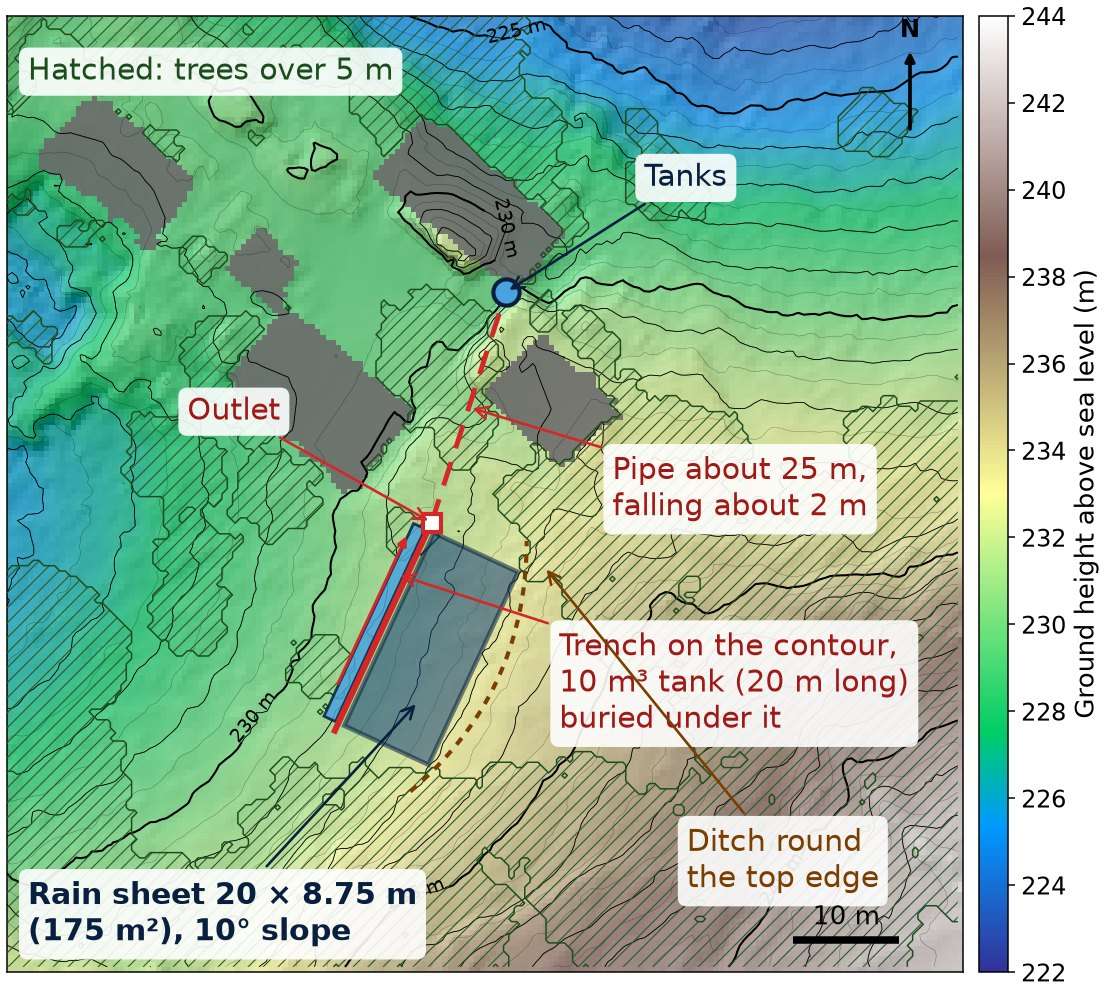
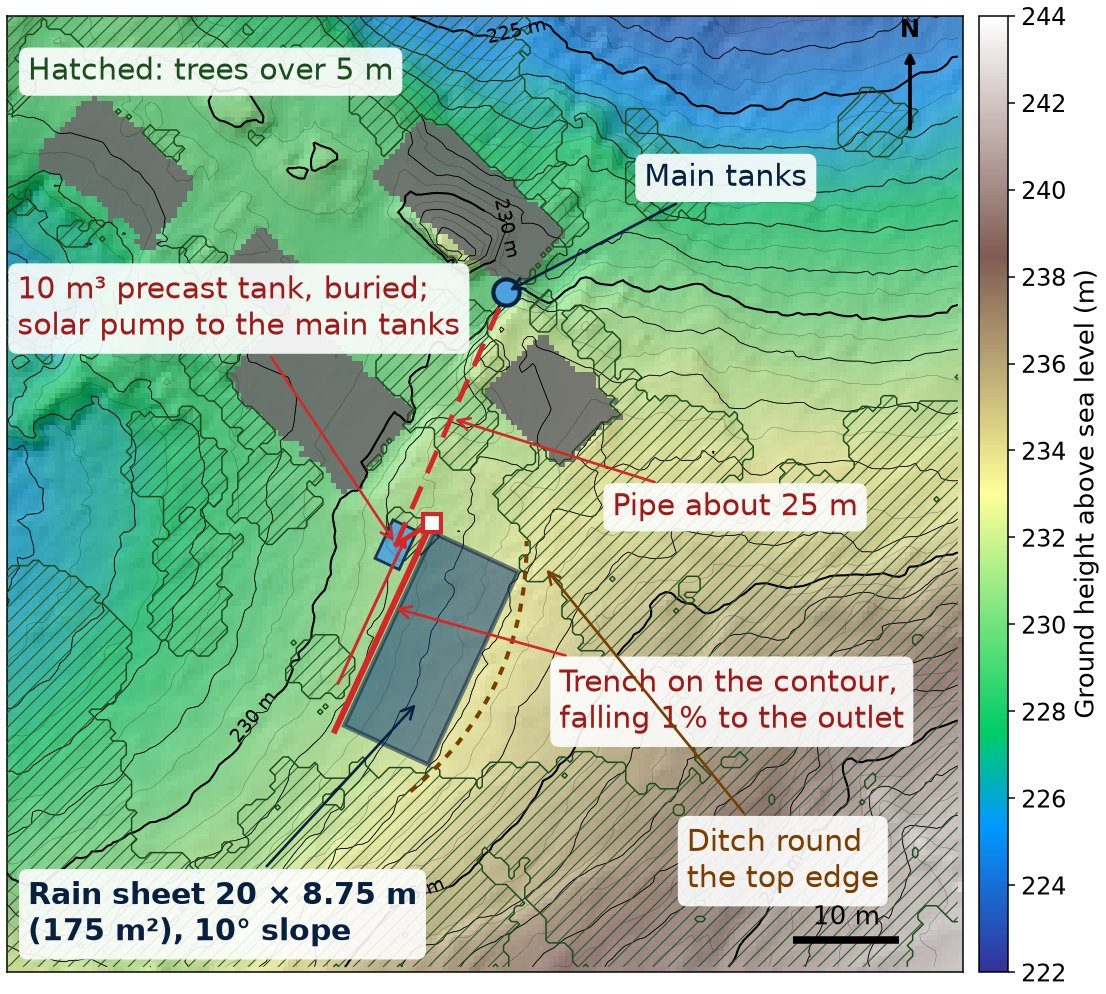
Precast extra tank sized 124 m3 minus the main tanks; house tank and solar building tank
- The 10 m3 extra tank becomes a buried precast concrete rainwater tank (drinking-water
  certified) at the end of the trench, with a solar pump and a float switch in the main tanks;
  size it as 124 m3 minus the measured usable storage. Cost about EUR 7,000-13,000.
- Tank 1 and Tank 2 renamed house tank and solar building tank, flagged as unmeasured.

diff --git a/index.html b/index.html
@@ -168,7 +168,7 @@
 <section class="fix" id="fix">
   <div class="fix-label">The recommended fix</div>
   <h2>A rain sheet on the slope next to the house</h2>
-  <p>The house runs short because its roofs catch too little rain. With the house full all summer they can't even refill the tanks over winter, so each summer starts with the tanks part-empty, and summer showers add little. So the answer is <b>more collecting surface</b>. The simplest, cheapest and lowest-risk way to get it is one rubber (EPDM) sheet, about <b>20 × 8.75 m (175 m²)</b>, laid on the open slope of grass and low scrub just south of the buildings, with a <b>10 m³ tank buried under its collection trench</b>. <b>The tank is what keeps the sheet this small:</b> it holds the sheet's water from storms that come when the main tanks are already full, and without it the sheet would need to be about 230 m² for the same result. If the main tanks turn out to hold about 10 m³ more than estimated, they do the same job and the extra tank isn't needed, so measure them first. It's made from off-the-shelf polyethylene water pipe of the kind used for drinking-water mains, so the tank itself is made of drinking-water-safe material. Everything drains by gravity into the existing underground tanks.</p>
+  <p>The house runs short because its roofs catch too little rain. With the house full all summer they can't even refill the tanks over winter, so each summer starts with the tanks part-empty, and summer showers add little. So the answer is <b>more collecting surface</b>. The simplest, cheapest and lowest-risk way to get it is one rubber (EPDM) sheet, about <b>20 × 8.75 m (175 m²)</b>, laid on the open slope of grass and low scrub just south of the buildings, draining into a <b>10 m³ buried tank</b> at the end of its collection trench. <b>The tank is what keeps the sheet this small:</b> it holds the sheet's water from storms that come when the main tanks are already full, and without it the sheet would need to be about 230 m² for the same result. A standard precast concrete rainwater tank does the job; concrete releases nothing harmful into the water. A small solar pump moves its water into the existing underground tanks whenever they have room. If the main tanks turn out to hold about 10 m³ more than estimated, they do the same job and the extra tank isn't needed, so measure them first.</p>
   <p>It's sized so that no tanker would have been needed in any summer since 2010. A summer as dry as 2009, the driest since 1994, would need one or two tankers; it's not worth a bigger sheet for that, and the sheet can be extended later if very dry summers become more common. A bigger buried tank lets the sheet shrink a little further.</p>
   <p class="fix-live" id="fix_live">Calculating…</p>
   <div class="toolbar"><button type="button" id="fix_btn">Switch the sheet on in the simulator</button>
@@ -176,7 +176,7 @@
 
   <figure>
     <a href="img/rain-sheet-site.jpg" target="_blank" rel="noopener"><img src="img/rain-sheet-site.jpg" width="1106" height="994" loading="lazy" alt="Elevation map of the slope south of the buildings from LiDAR, showing the proposed rain sheet, its collection trench and outlet, the diversion ditch above it and the pipe to the tanks."></a>
-    <figcaption>Ground height from the IGN LiDAR HD survey (flown April 2022, 0.5 m grid), coloured by height with 1 m contours; buildings in grey, trees over 5 m hatched. The sheet, trench, ditch and pipe are the proposed layout; the 10 m³ tank lies under the trench (drawn just beside it so it shows). The tanks are at the southern corner of the north-east building. Tap the map to open it full size.</figcaption>
+    <figcaption>Ground height from the IGN LiDAR HD survey (flown April 2022, 0.5 m grid), coloured by height with 1 m contours; buildings in grey, trees over 5 m hatched. The sheet, trench, ditch, extra tank and pipe are the proposed layout. The main tanks are at the southern corner of the north-east building. Tap the map to open it full size.</figcaption>
   </figure>
 
   <h3>Options compared</h3>
@@ -186,7 +186,7 @@
       <thead><tr><th>Option</th><th>Upfront cost</th><th>Tanker deliveries a summer</th><th>Risk and hassle</th></tr></thead>
       <tbody>
         <tr><td>As now, with tankers</td><td>None</td><td class="num">6.5 (about €1,800 a year)</td><td>Depends on finding a haulier and a legal filling point; in a drought, towns compete for the same lorries.</td></tr>
-        <tr class="best"><td><b>Rain sheet 20 × 8.75 m (175 m²) with a 10 m³ tank under it</b></td><td><b>About €9,000–16,000</b></td><td class="num"><b>0</b> (lowest the tanks got: about 12 m³, in 2011; a summer like 2009 would need 1–2)</td><td>Proven method, about a week's work with a small digger, gravity-fed. Ask the mairie first; work in autumn or winter. The sheet lasts 20–40 years.</td></tr>
+        <tr class="best"><td><b>Rain sheet 20 × 8.75 m (175 m²) with a 10 m³ buried tank</b></td><td><b>About €7,000–13,000</b></td><td class="num"><b>0</b> (lowest the tanks got: about 12 m³, in 2011; a summer like 2009 would need 1–2)</td><td>Proven method, about a week's work with a small digger, gravity-fed. Ask the mairie first; work in autumn or winter. The sheet lasts 20–40 years.</td></tr>
         <tr><td>The same sheet and tank, plus dual-flush toilets</td><td>As above, plus a few hundred euros</td><td class="num">0 (lowest: about 26 m³, even in 2009)</td><td>A large safety margin, even in the driest summer.</td></tr>
         <tr><td>A bigger sheet instead of the tank (about 230 m²)</td><td>Less</td><td class="num">0 (a summer like 2009 would need 1)</td><td>A third more sheet to look at.</td></tr>
         <tr><td>Smaller sheet (about 105 m²), no tank, with dual-flush toilets</td><td>Less than the main option, plus the toilets</td><td class="num">0 (a summer like 2009 would need 1)</td><td>The smallest sheet, if the toilets are changed.</td></tr>
@@ -222,12 +222,12 @@
         <li><b>Clear the ground</b> between September and February, outside the bird nesting season and the spring flowering: cut the grass and bushes short and take out any woody roots that could push up under the sheet. No weedkiller.</li>
         <li><b>Smooth the ground.</b> Rake off stones bigger than about 2 cm and fill hollows so no water can pond. Shape the surface as a very shallow trough, with the middle 10–20 cm lower than the ends, so water runs down the middle.</li>
         <li><b>Dig the collection trench</b> along the bottom edge, following the contour, falling a steady 1% (20 cm over 20 m) to the outlet at the north-east end, nearest the tanks. The ground rises slightly towards that end, so the trench is about 30 cm deep at the south-west end and about 90 cm at the outlet. Line it with the bottom edge of the sheet.</li>
-        <li><b>Lay the 10 m³ pipe tank</b> in a deeper trench under the collection trench, before laying the sheet (see <i>The 10 m³ tank under the trench</i>). The collection trench drains into it at the north-east end through a leaf screen.</li>
+        <li><b>Put in the extra tank</b> (see <i>The 10 m³ extra tank, and checking the main tanks</i>) next to the north-east end of the collection trench, with its inlet below the trench outlet so the sheet's water runs into it through a leaf screen.</li>
         <li><b>Dig anchor trenches</b> about 30 × 30 cm along the top edge and both sides, and a shallow <b>diversion ditch</b> above the top edge that sends water and leaves from the wood round the sheet. Its ends run into the edge of the trees, so keep them shallow there and work round the roots.</li>
         <li><b>Lay a protective underlay</b> of non-woven geotextile (300 g/m², or 500 g/m² over rock or a lot of stone).</li>
         <li><b>Lay the sheet</b> from the top on a calm, warm day, when the rubber is supple. Pull it downhill so it lies flat without ripples. Bury its top and side edges in the anchor trenches and lap the bottom edge into the collection trench.</li>
         <li><b>Dig the pipe trench</b> to the tanks, about 25 m, with a steady fall all the way. It's up to about 2 m deep where the ground rises beside the south-east building, so use the digger and keep clear of the foundations.</li>
-        <li><b>Connect the tank</b> to the main tanks with 110 mm PVC pipe laid in the pipe trench, with a self-cleaning leaf filter and a float valve where it enters them, so the tank under the sheet only empties when they have room.</li>
+        <li><b>Connect the extra tank</b> to the main tanks: a small solar pump in the extra tank, switched by a float switch in the main tanks so it only pumps when they have room, and about 25 m of pipe in the pipe trench, with a self-cleaning leaf filter where it enters them.</li>
         <li><b>Fence it</b> against wild boar and deer, and keep guests off: wet rubber on a slope is very slippery. Cut back any branches that overhang it.</li>
       </ol>
       <p class="small">Upkeep: sweep or blow off leaves before May and after summer storms, clean the leaf filter, and check the sheet once a year. Small tears are patched like a bicycle tyre.</p>
@@ -236,12 +236,12 @@
   </details>
 
   <details>
-    <summary>The 10 m³ tank under the trench, and checking the main tanks</summary>
+    <summary>The 10 m³ extra tank, and checking the main tanks</summary>
     <div class="body">
-      <p class="small"><b>Why a tank.</b> A storm that arrives when the main tanks are already full would otherwise run off the sheet and be lost. The tank under the trench holds that water and lets it run into the main tanks as they empty. That's what lets the sheet be 175 m² instead of about 230 m² for the same result. A bigger tank lets the sheet shrink a little more, but the gain tails off quickly:</p>
+      <p class="small"><b>Why a tank.</b> A storm that arrives when the main tanks are already full would otherwise run off the sheet and be lost. The extra tank holds that water and passes it to the main tanks as they empty. That's what lets the sheet be 175 m² instead of about 230 m² for the same result. A bigger tank lets the sheet shrink a little more, but the gain tails off quickly:</p>
       <div class="table-wrap">
         <table>
-          <thead><tr><th>Extra tank under the sheet</th><th class="num">Sheet needed</th><th>Example size</th></tr></thead>
+          <thead><tr><th>Extra tank for the sheet</th><th class="num">Sheet needed</th><th>Example size</th></tr></thead>
           <tbody>
             <tr><td>None</td><td class="num">about 230 m²</td><td>20 × 11.5 m</td></tr>
             <tr class="best"><td><b>10 m³</b></td><td class="num"><b>175 m²</b></td><td><b>20 × 8.75 m</b></td></tr>
@@ -254,7 +254,7 @@
       <p class="tiny">Same result in each row: no tanker in any summer since 2010, and one or two in a summer as dry as 2009. The simulator models the tank as filled only by the sheet and emptying into the main tanks whenever they have room.</p>
       <p class="small"><b>The trade-off between tank and sheet.</b> More storage lets the sheet shrink a little, but only a little. Below about 155–175 m², storage can't make up for it: the sheet's area is what brings water in during the summer, and with too little of it the longer record shows tankers in several dry summers however big the tanks are. So plan on about 175 m² of sheet. The tank question is only how to provide enough storage in total.</p>
       <h3>Check the main tanks first</h3>
-      <p class="small">What matters is the total storage, not where it sits. A cubic metre in the main tanks is worth at least as much as one under the sheet, because the main tanks also take the roof water. The page assumes the two main tanks are 4 × 4 × 4 m with 90% usable, which is 115 m³, but they haven't been measured. With the 175 m² sheet feeding the main tanks directly, about 120–124 m³ of usable storage does the job of the extra tank:</p>
+      <p class="small">What matters is the total storage, not where it sits. A cubic metre in the main tanks is worth at least as much as one in the extra tank, because the main tanks also take the roof water. The page assumes the two main tanks, the house tank and the solar building tank, are 4 × 4 × 4 m each with 90% usable, which is 115 m³. <b>That's an estimate: they haven't been measured, and the answer depends on it.</b> With the 175 m² sheet feeding the main tanks directly, about 120–124 m³ of usable storage does the job of the extra tank:</p>
       <div class="table-wrap">
         <table>
           <thead><tr><th class="num">Usable storage in the main tanks</th><th class="num">Their full size, if 90% is usable</th><th class="num">Tankers since 2010</th><th class="num">Tankers since 1994</th></tr></thead>
@@ -267,16 +267,16 @@
         </table>
       </div>
       <p class="small"><b>So measure them before building anything.</b> In each tank: the inside length and width, the depth from the floor to the overflow pipe, and the height of the pump intake above the floor (water below it can't be used). Usable volume = length × width × (overflow height − intake height). If the two together come to about 124 m³ or more, skip the extra tank. If they come up short, the extra tank only has to make up the difference. Small differences add up: an extra 25 cm of depth across both tanks is about 8 m³.</p>
-      <p class="small">To check it in the simulator: enter the measured sizes under <i>Tanks</i>, set <i>Usable share of the tank volume</i> under <i>Tanks in detail</i>, tick the ground sheet, untick "Tank under the sheet", and set <i>Start from the year</i> to 1994.</p>
-      <p class="small"><b>Size and height.</b> The tank runs the full 20 m under the collection trench, so 10 m³ needs an inside cross-section of only 0.5 m²: a pipe about 800 mm across inside, or a box 1.0 m wide with 0.5 m of water. Its bottom sits at about 230.1–230.2 m, above the point where the pipe enters the main tanks (about 229.3 m), so it empties by gravity. If the main tanks' inlet turns out to be higher, a small solar pump does the same job.</p>
-      <p class="small"><b>It only empties when the main tanks have room.</b> A float valve where the pipe enters the main tanks closes when they're full and opens again as the house draws them down. Without it, the tank under the sheet would drain straight through the full main tanks and out of their overflow, and the stored water would be lost. Use a full-bore float valve made for low-pressure gravity filling. When both are full, the tank under the sheet overflows onto the slope below.</p>
-      <p class="small"><b>Two ways to build it:</b></p>
+      <p class="small">To check it in the simulator: enter the measured sizes under <i>Tanks</i>, set <i>Usable share of the tank volume</i> under <i>Tanks in detail</i>, tick the ground sheet, untick "Extra tank (sheet only)", and set <i>Start from the year</i> to 1994.</p>
+      <p class="small"><b>Size of the extra tank.</b> It needs to hold x = 124 m³ minus the usable storage in the main tanks: 10 m³ with the current estimate of 115 m³. Buy one a little bigger than x, as the bottom and top of any tank can't be used, and round up to the next standard size.</p>
+      <p class="small"><b>It only empties when the main tanks have room.</b> A float switch in the main tanks runs the pump only while there's room in them; otherwise the extra tank keeps its water. When both are full, the extra tank overflows onto the slope below. If a low, wide tank fits between the trench outlet (about 231 m) and the main tanks' inlet (about 229.3 m), gravity can replace the pump, with a float valve at the main tanks doing the same job as the float switch.</p>
+      <p class="small"><b>What to build it from:</b></p>
       <ul class="checks small">
-        <li><b>Recommended: 20 m of off-the-shelf polyethylene water-main pipe</b> (PE100, approved for drinking water, with the French ACS certificate). These pipes are sized by their outside diameter: a 900 mm pipe is about 830 mm inside and holds about 10.8 m³ over 20 m. End caps are welded on, so the whole tank is one sealed piece of drinking-water-grade plastic, with no lining and no joints along its length. The trench drains into it through a leaf screen at the north-east end; an outlet at the bottom of the same end feeds the pipe to the main tanks; an overflow and an inspection opening complete it. It goes into a trench about 1.3 m wide and 1.4 m deep in a day with a digger; the end caps and fittings are welded by the supplier or a pipe welder.</li>
-        <li><b>Cheaper, but not drinking-water grade:</b> 800 mm twin-wall (ribbed) plastic drainage pipe, the kind sold for buried stormwater storage, holds about 10 m³ over 20 m and costs less, but isn't approved for drinking water.</li>
-        <li><b>Concrete block</b>, inside 20 m long, 1.0 m wide and 0.75 m high (0.5 m of water and 0.25 m of air). It needs a reinforced concrete base slab, walls of concrete-filled blocks with steel bars (the ground pushes on the walls when the tank is empty), a lid of precast concrete slabs, and the inside rendered with a waterproof cement coating or lined with EPDM. It works, but it's more labour, has more joints that can crack as the ground moves, and the coating or liner would need to be drinking-water approved too.</li>
+        <li><b>Recommended: a precast concrete rainwater tank</b>, buried, from a local concrete works; a 10 m³ tank is roughly 3.5 × 2.2 × 2 m. Concrete has been used to store drinking water for over a century and releases nothing harmful; it even nudges acidic rainwater's pH up a little. A new tank releases lime at first, which pushes the pH right up, so fill and empty it once or twice before use. Ask for one certified for drinking water (ACS) with no coating inside that isn't approved. It needs a crane or a large digger to lift it in.</li>
+        <li><b>Standard buried plastic rainwater tanks</b>, two or three linked, if a crane can't reach the site. Choose food-grade or drinking-water-grade polyethylene.</li>
+        <li><b>Polyethylene drinking-water main pipe</b>, 20 m of 900 mm pipe with welded end caps (about 10.8 m³), laid under the trench. It drains by gravity and needs no pump, but costs about €5,000–9,000. A concrete-block tank built on site is another option, but it's more labour and its joints can crack as the ground moves.</li>
       </ul>
-      <p class="small">Either way it must be closed and dark, with fine insect mesh on the vents and overflow: open standing water evaporates and breeds mosquitoes.</p>
+      <p class="small">Whatever it's made of, it must be closed and dark, with fine insect mesh on the vents and overflow: open standing water evaporates and breeds mosquitoes.</p>
     </div>
   </details>
 
@@ -289,11 +289,12 @@
           <tbody>
             <tr><td>EPDM sheet in one piece, a standard 12.2 × 21.35 m panel (about 260 m², 1.14–1.2 mm thick), allowing for the trenches</td><td class="num">€2,300–3,400</td></tr>
             <tr><td>Geotextile underlay, about 260 m²</td><td class="num">€300–500</td></tr>
-            <tr><td>10 m³ tank under the trench: 20 m of 900 mm drinking-water PE pipe with welded end caps and fittings (a twin-wall drainage pipe or a block tank would cost about €2,000–4,000, but isn't drinking-water grade)</td><td class="num">€5,000–9,000</td></tr>
-            <tr><td>Leaf screen, leaf filter, float valve and about 25 m of 110 mm pipe</td><td class="num">€400–800</td></tr>
+            <tr><td>10 m³ precast concrete tank, drinking-water certified, delivered and lifted in</td><td class="num">€2,500–5,000</td></tr>
+            <tr><td>Small solar pump and float switch</td><td class="num">€300–800</td></tr>
+            <tr><td>Leaf screen, leaf filter and about 25 m of pipe</td><td class="num">€400–800</td></tr>
             <tr><td>Fence against wild boar and deer</td><td class="num">€500–1,000</td></tr>
-            <tr><td>Small digger with driver, 1–2 days: clearing, the tank trench and the deep stretch of pipe trench</td><td class="num">€600–1,500</td></tr>
-            <tr><th>Total</th><th class="num">€9,000–16,000</th></tr>
+            <tr><td>Small digger with driver, 1–2 days: clearing, the tank hole and the deep stretch of pipe trench</td><td class="num">€600–1,500</td></tr>
+            <tr><th>Total</th><th class="num">€7,000–13,000</th></tr>
           </tbody>
         </table>
       </div>
@@ -360,8 +361,8 @@
     <summary>Before ordering</summary>
     <div class="body">
       <ol class="steps small">
-        <li><b>Measure the main tanks</b> (see <i>The 10 m³ tank under the trench, and checking the main tanks</i>). If they hold about 124 m³ of usable water or more, the extra tank isn't needed.</li>
-        <li><b>Check the levels on site.</b> The pipe needs a steady fall all the way. Measure how high the pipe would enter the tanks: it should be below the bottom of the tank under the trench (about 230.1 m), with enough fall for 25 m of pipe. The LiDAR puts the ground at the tanks at about 229.5 m and the tanks are underground, so this should work; but it decides whether gravity feed works at all, so check it first.</li>
+        <li><b>Measure the house tank and the solar building tank</b> (see <i>The 10 m³ extra tank, and checking the main tanks</i>). If they hold about 124 m³ of usable water or more, the extra tank isn't needed.</li>
+        <li><b>Check the levels on site.</b> The extra tank's inlet must sit below the trench outlet (about 231 m) so the sheet's water runs into it, and there must be room to lift a precast tank in.</li>
         <li><b>Check the slope is still open grass and low scrub.</b> The survey is from April 2022.</li>
         <li><b>Email the mairie</b> or the planning office of the Communauté de communes with a sketch, and keep their reply.</li>
         <li><b>Get two or three quotes</b> for the sheet and underlay.</li>
@@ -413,9 +414,9 @@
         <tbody>
           <tr><td>Daily rainfall</td><td><span class="ex_range"></span></td><td>Météo-France rain gauge 46005001, Anglars-Juillac, 2.9 km from the house. The gauge is in the valley at 104 m and the house is on the plateau at about 229 m; if anything, slightly higher ground gets slightly more rain, so the gauge is on the cautious side. Published as <a href="https://www.data.gouv.fr/fr/datasets/donnees-climatologiques-de-base-quotidiennes/" target="_blank" rel="noopener">open data on data.gouv.fr</a>. Refreshed on this page every week.</td></tr>
           <tr><td>Roof areas</td><td>2 roofs, 15 × 5 m each</td><td>Footprint of each roof. It's the area seen from above that catches rain, not the larger sloping tiled surface.</td></tr>
-          <tr><td>Ground sheet</td><td>Off; 20 × 8.75 m, 85% reaches the tanks, with a 10 m³ tank under it</td><td>The proposed rubber sheet on the slope south of the buildings (see <a href="#fix">the recommended fix</a>). A plastic-sheeted catchment on a South Australian farm gave close to 100% runoff, though ripples in the plastic reduced it in light rain on hot days (<a href="https://cdn.environment.sa.gov.au/landscape/docs/ki/CASE-STUDY_CHIRGWIN-005.pdf" target="_blank" rel="noopener">Kangaroo Island case study</a>). 85% allows for that, leaves, dust and the first rinse.</td></tr>
+          <tr><td>Ground sheet</td><td>Off; 20 × 8.75 m, 85% reaches the tanks, with a 10 m³ extra tank</td><td>The proposed rubber sheet on the slope south of the buildings (see <a href="#fix">the recommended fix</a>). A plastic-sheeted catchment on a South Australian farm gave close to 100% runoff, though ripples in the plastic reduced it in light rain on hot days (<a href="https://cdn.environment.sa.gov.au/landscape/docs/ki/CASE-STUDY_CHIRGWIN-005.pdf" target="_blank" rel="noopener">Kangaroo Island case study</a>). 85% allows for that, leaves, dust and the first rinse.</td></tr>
           <tr><td>Collection efficiency</td><td>75%</td><td>Design standards for rainwater systems (BS 8515 in the UK, DIN 1989 in Germany) assume roughly 80–90% runs off a pitched roof and about 90% gets through the filter. Set a little lower here for clay tiles and summer cloudbursts. You can measure the real figure with your own tanks at the bottom of the page.</td></tr>
-          <tr><td>Tanks</td><td>2 tanks, 4 × 4 × 4 m, 90% usable</td><td>Estimated size, still to be measured. The very bottom (below the pump intake) and top (above the overflow pipe) can't be used.</td></tr>
+          <tr><td>Tanks</td><td>House tank and solar building tank, 4 × 4 × 4 m each, 90% usable</td><td><b>Estimated size, still to be measured.</b> The very bottom (below the pump intake) and top (above the overflow pipe) can't be used.</td></tr>
           <tr><td>Water use</td><td>120 litres per guest per day</td><td>Built up from showers, toilets, taps, laundry and dishwasher under <i>Water use in detail</i>. For comparison, the French average is about 145 litres per person per day including drinking, cooking and gardens (<a href="https://chiffrecle.oieau.fr/3049" target="_blank" rel="noopener">Eau France, 2023</a>).</td></tr>
           <tr><td>Water price</td><td>€2.80 per m³</td><td>Official average price of drinking water in the Lot, 2025 (<a href="https://www.services.eaufrance.fr/departement/46/2025" target="_blank" rel="noopener">SISPEA</a>).</td></tr>
           <tr><td>Tanker delivery</td><td>12 m³ from Parnac (15.6 km): €150 fixed + €3 per km + water</td><td>Each delivery costs a fixed charge, plus a charge per kilometre on the round trip, plus the water. The fixed charge is about 1 to 1.5 hours of lorry and driver at the €90 to €130 an hour that hauliers charge. The per-km rate is the French road-haulage cost of about €1.80 to €2.30 per km (<a href="https://www.cnr.fr/" target="_blank" rel="noopener">CNR</a>) plus a margin, in line with the €2 to €4 per km that delivery firms quote (<a href="https://eausourcedistribution.fr/quels-sont-les-couts-dune-livraison-deau-par-camion-citerne/" target="_blank" rel="noopener">example</a>). Two real figures check it: about €300 for a small private delivery, and the roughly €10 per m³ that Figeac budgeted for tanker loads in its August 2026 drought plan, about €10,000 a day for up to about 1,000 m³ (<a href="https://france3-regions.franceinfo.fr/occitanie/lot/cahors/on-va-aller-chercher-de-l-eau-avec-des-camions-citernes-comment-le-maire-de-cette-ville-de-10-000-habitants-anticipe-une-situation-de-crise-face-a-la-secheresse-3401143.html" target="_blank" rel="noopener">France 3</a>). The local hauliers and their distances are under <i>Tanker in detail</i>. Replace with a real quote when you have one.</td></tr>
@@ -488,7 +489,7 @@
 
   <div class="panel">
     <h3>Tanks</h3>
-    <p class="small muted">Tick the tanks in use. Inside dimensions in metres: length × width × depth for a box-shaped tank, diameter × depth for a round one. The tank under the sheet only takes water from the ground sheet, and empties into the other tanks whenever they have room.</p>
+    <p class="small muted"><b>The house tank and the solar building tank haven't been measured yet: 4 × 4 × 4 m each is an estimate.</b> Enter their real inside sizes when you have them. Tick the tanks in use. Inside dimensions in metres: length × width × depth for a box-shaped tank, diameter × depth for a round one. The extra tank (sheet only) only takes water from the ground sheet, and empties into the other tanks whenever they have room.</p>
     <div id="tanks"></div>
     <div class="toolbar" style="margin:8px 0 0">
       <button type="button" id="add_tank">Add another tank</button>

diff --git a/app.js b/app.js
@@ -49,12 +49,12 @@
   const SHEET_ROW = DEFAULT_SURFACES.findIndex((x) => x.g); // where the sheet sits in the default list
   const has = (o, k) => Object.prototype.hasOwnProperty.call(o, k);
   // Box tanks use length × width × depth; round tanks use l as the diameter and ignore w.
-  // The tank under the sheet (g) only takes the sheet's water, and empties into the other tanks
+  // The extra tank for the sheet (g) only takes the sheet's water, and empties into the other tanks
   // whenever they have room.
   const DEFAULT_TANKS = [
-    { n: 'Tank 1', shape: 'box', l: 4, w: 4, d: 4, on: 1 },
-    { n: 'Tank 2', shape: 'box', l: 4, w: 4, d: 4, on: 1 },
-    { n: 'Tank under the sheet', shape: 'box', l: 20, w: 1, d: 0.5, on: 0, g: 1 },
+    { n: 'House tank', shape: 'box', l: 4, w: 4, d: 4, on: 1 },
+    { n: 'Solar building tank', shape: 'box', l: 4, w: 4, d: 4, on: 1 },
+    { n: 'Extra tank (sheet only)', shape: 'box', l: 4, w: 2.5, d: 1, on: 0, g: 1 },
   ];
   const SHEET_TANK_ROW = DEFAULT_TANKS.findIndex((t) => t.g);
   const DEFAULTS = {
@@ -198,7 +198,7 @@
     const area = catchment(s);
     const cap = usableVolume(s);
     const trigger = cap * s.trig / 100;
-    // With a tank under the sheet, the sheet fills that tank, which tops up the main tanks when they
+    // With an extra tank for the sheet, the sheet fills that tank, which tops up the main tanks when they
     // have room; otherwise everything goes straight to the main tanks. 1 mm on 1 m² is 1 litre.
     const capS = sheetTankVolume(s);
     const capM = cap - capS;
@@ -213,7 +213,7 @@
     const deliveryDays = [];
     const years = [];
     let v = capM * s.fill / 100; // main tanks
-    let sv = capS * s.fill / 100; // tank under the sheet
+    let sv = capS * s.fill / 100; // extra tank for the sheet
     let arrival = -1; // day a tanker that's been ordered will arrive
     let Y = null;
     let minLevel = Infinity;
@@ -252,7 +252,7 @@
       Y.collected += inflow + inflowS;
       if (v > capM) { Y.overflow += v - capM; v = capM; }
       if (sv > capS) { Y.overflow += sv - capS; sv = capS; }
-      // The tank under the sheet tops up the main tanks.
+      // The extra tank tops up the main tanks.
       const move = Math.min(sv, capM - v);
       if (move > 0) { v += move; sv -= move; }
 
@@ -587,7 +587,7 @@
     const tankV = kt >= 0 ? tankFootprint(s.tanklist[kt]) * s.tanklist[kt].d : 0;
     const r0 = withSheet(0);
     const r1 = withSheet(1);
-    const size = `${fmt(sheet.l * sheet.w)} m² sheet${tankV > 0 ? ` and the ${fmt(tankV)} m³ tank under it` : ''}`;
+    const size = `${fmt(sheet.l * sheet.w)} m² sheet${tankV > 0 ? ` and a ${fmt(tankV)} m³ extra tank` : ''}`;
     let t;
     if (s.tanker) {
       const del = (r) => `${oneDp(r.T.deliveries / r.span)} tanker ${plural(Math.round(r.T.deliveries / r.span * 10) / 10, 'delivery', 'deliveries')} a summer`;
@@ -981,7 +981,7 @@
         tank.n = rest.join(' ') || (DEFAULT_TANKS[k] ? DEFAULT_TANKS[k].n : 'Tank ' + (k + 1));
         return tank;
       });
-      // Links made before the tank under the sheet existed: put it back in its usual place.
+      // Links made before the extra tank existed: put it back in its usual place.
       if (list.length && !list.some((t) => t.g)) list.splice(Math.min(SHEET_TANK_ROW, list.length), 0, clone(DEFAULT_TANKS[SHEET_TANK_ROW]));
       if (list.length) s.tanklist = list;
     } else if (['tanks', 'tl', 'tw', 'td'].some((k) => p.has(k))) {

diff --git a/README.md b/README.md
@@ -87,32 +87,31 @@ litres per guest per day (fall in level plus rain added).
 
 Settings live in the page address. Surfaces are written as
 `on~length~width[~e<share>][~g][~name]` and tanks as `on~shape~length~width~depth[~g][~name]`,
-separated by `|`, where `g` marks the proposed ground sheet and the tank under it. Links made
+separated by `|`, where `g` marks the proposed ground sheet and its extra tank. Links made
 before these existed get them added, switched off. The calibration tool leaves both out, as
 they aren't built.
 
-The tank under the sheet is modelled as a separate store: only the sheet fills it, and each day
-it empties into the main tanks as far as they have room (on site, a float valve at the main
-tanks' inlet does this). The level shown is the total of both.
+The extra tank is modelled as a separate store: only the sheet fills it, and each day it
+empties into the main tanks as far as they have room (on site, a solar pump switched by a float
+switch in the main tanks). The level shown is the total of both.
 
-## The recommended fix: a rain sheet on the slope, with a tank under it
+## The recommended fix: a rain sheet on the slope, with an extra tank
 
 The roofs catch too little rain: with the house full all summer they can't even refill the
 tanks over winter. The fix is more collecting surface: one EPDM rubber sheet on the slope of
-grass and low scrub just south of the buildings, with a 10 m³ tank buried under its collection
-trench. The page has the full write-up, the map and the sources; in short:
+grass and low scrub just south of the buildings, draining into a 10 m³ buried tank at the end
+of its collection trench. The page has the full write-up, the map and the sources; in short:
 
 - **Site** (IGN LiDAR HD, tiles 0557_6382 and 0558_6382, flown 11 April 2022): the house sits
   on a saddle at about 229.5 m between two hollows. The slope south of the buildings rises from
   about 231 to 233 m at 10°, facing west-north-west. The underground tanks are at the southern
   corner of the north-east building, ground about 229.5 m.
 - **Layout:** sheet 20 × 8.75 m (175 m²), square on the slope: the 20 m bottom edge follows the
-  contour, with a collection trench falling 1% to the north-east end. Under the trench, a 10 m³
-  tank 20 m long, which is what keeps the sheet this small: 20 m of off-the-shelf PE100
-  drinking-water main pipe, 900 mm outside and about 830 mm inside (about 10.8 m³), with welded
-  end caps (or, not drinking-water grade, 800 mm twin-wall drainage pipe or a block tank)
-  with its bottom at about 230.1 m. About 25 m of buried 110 mm pipe runs north and falls to the
-  main tanks; beside the south-east building the pipe trench is up to about 2 m deep. No pump.
+  contour, with a collection trench falling 1% to the north-east end. There it drains into a 10 m³
+  buried precast concrete rainwater tank (drinking-water certified), which is what keeps the
+  sheet this small. A small solar pump, switched by a float switch in the main tanks, moves its
+  water about 25 m to the main tanks whenever they have room. Size the extra tank as 124 m³ minus
+  the measured usable storage of the main tanks.
 - **Result with the default settings:** tanker deliveries go from 6.5 a summer (about €1,800 a
   year) to none since 2010; the lowest the tanks get is 12 m³ (2011). A summer as dry as 2009
   would need one or two tankers; the sheet can be extended later. Without the tank the sheet
@@ -121,11 +120,10 @@ trench. The page has the full write-up, the map and the sources; in short:
   collecting area. With dual-flush toilets as well, the lowest is 26 m³ even in 2009.
 - **Measure the main tanks first:** what matters is total storage. With the sheet feeding the
   main tanks directly, about 120–124 m³ of usable storage (about 133–138 m³ full size at 90%
-  usable) does the job of the extra tank; the estimate is 115 m³ (two 4 × 4 × 4 m tanks).
-- **Cost:** about €9,000–16,000: standard 12.2 × 21.35 m EPDM panel €2,300–3,400; underlay
-  €300–500; drinking-water pipe tank €5,000–9,000 (rough; a drainage-pipe or block tank about
-  €2,000–4,000); leaf screen, filter and pipe €400–800; fence €500–1,000; small
-  digger with driver for 1–2 days €600–1,500.
+  usable) does the job of the extra tank; the estimate is 115 m³ (house tank and solar building tank, 4 × 4 × 4 m each, not yet measured).
+- **Cost:** about €7,000–13,000: standard 12.2 × 21.35 m EPDM panel €2,300–3,400; underlay
+  €300–500; precast tank €2,500–5,000; solar pump and float switch €300–800; leaf screen,
+  filter and pipe €400–800; fence €500–1,000; small digger with driver for 1–2 days €600–1,500.
 - **Suppliers:** Egide Systèmes, Mérignac, 05 56 02 76 39 and EPDM Méditerranée, Mudaison,
   07 82 52 53 55 (Elevate distributors); Chausson Matériaux (Flexirub Aquafilma, made to
   measure); ETOBA, 01 34 84 04 64.
@@ -151,9 +149,9 @@ about €1,100. A pump able to lift 130 m or more, its solar drive and treatment
 |---|---|---|
 | Collecting surfaces | Roofs 1 and 2, 15 × 5 m each | Footprint (plan area), which is what catches rain |
 | Optional surfaces | Yoga building roof 5 × 7 m, terraces 10 × 4 m and 5 × 3 m | Off by default |
-| Ground sheet | 20 × 8.75 m EPDM sheet, 85% reaching the tanks, with a 10 m³ tank under it | Off by default; the recommended fix (see above) |
+| Ground sheet | 20 × 8.75 m EPDM sheet, 85% reaching the tanks, with a 10 m³ extra tank | Off by default; the recommended fix (see above) |
 | Collection efficiency | 75% | BS 8515 / DIN 1989 use about 0.8–0.9 runoff × 0.9 filter; set lower for clay tiles and summer cloudbursts |
-| Tanks | Tank 1 and Tank 2, each a 4 × 4 × 4 m box, 90% usable | Estimated, still to be measured. Each tank has its own size and shape (box or round), and more can be added |
+| Tanks | House tank and solar building tank, each a 4 × 4 × 4 m box, 90% usable | Estimated, still to be measured. Each tank has its own size and shape (box or round), and more can be added |
 | Guests | 8, house full, May to October | |
 | Water use | 120 L per guest per day | Showers 1 × 50 L, standard 9 L flush × 5, taps 15 L; laundry 8 loads × 55 L a week and dishwasher 1.5 × 12 L a day for the house |
 | Tanker | On; ordered at 5%, arrives after 2 days | |
